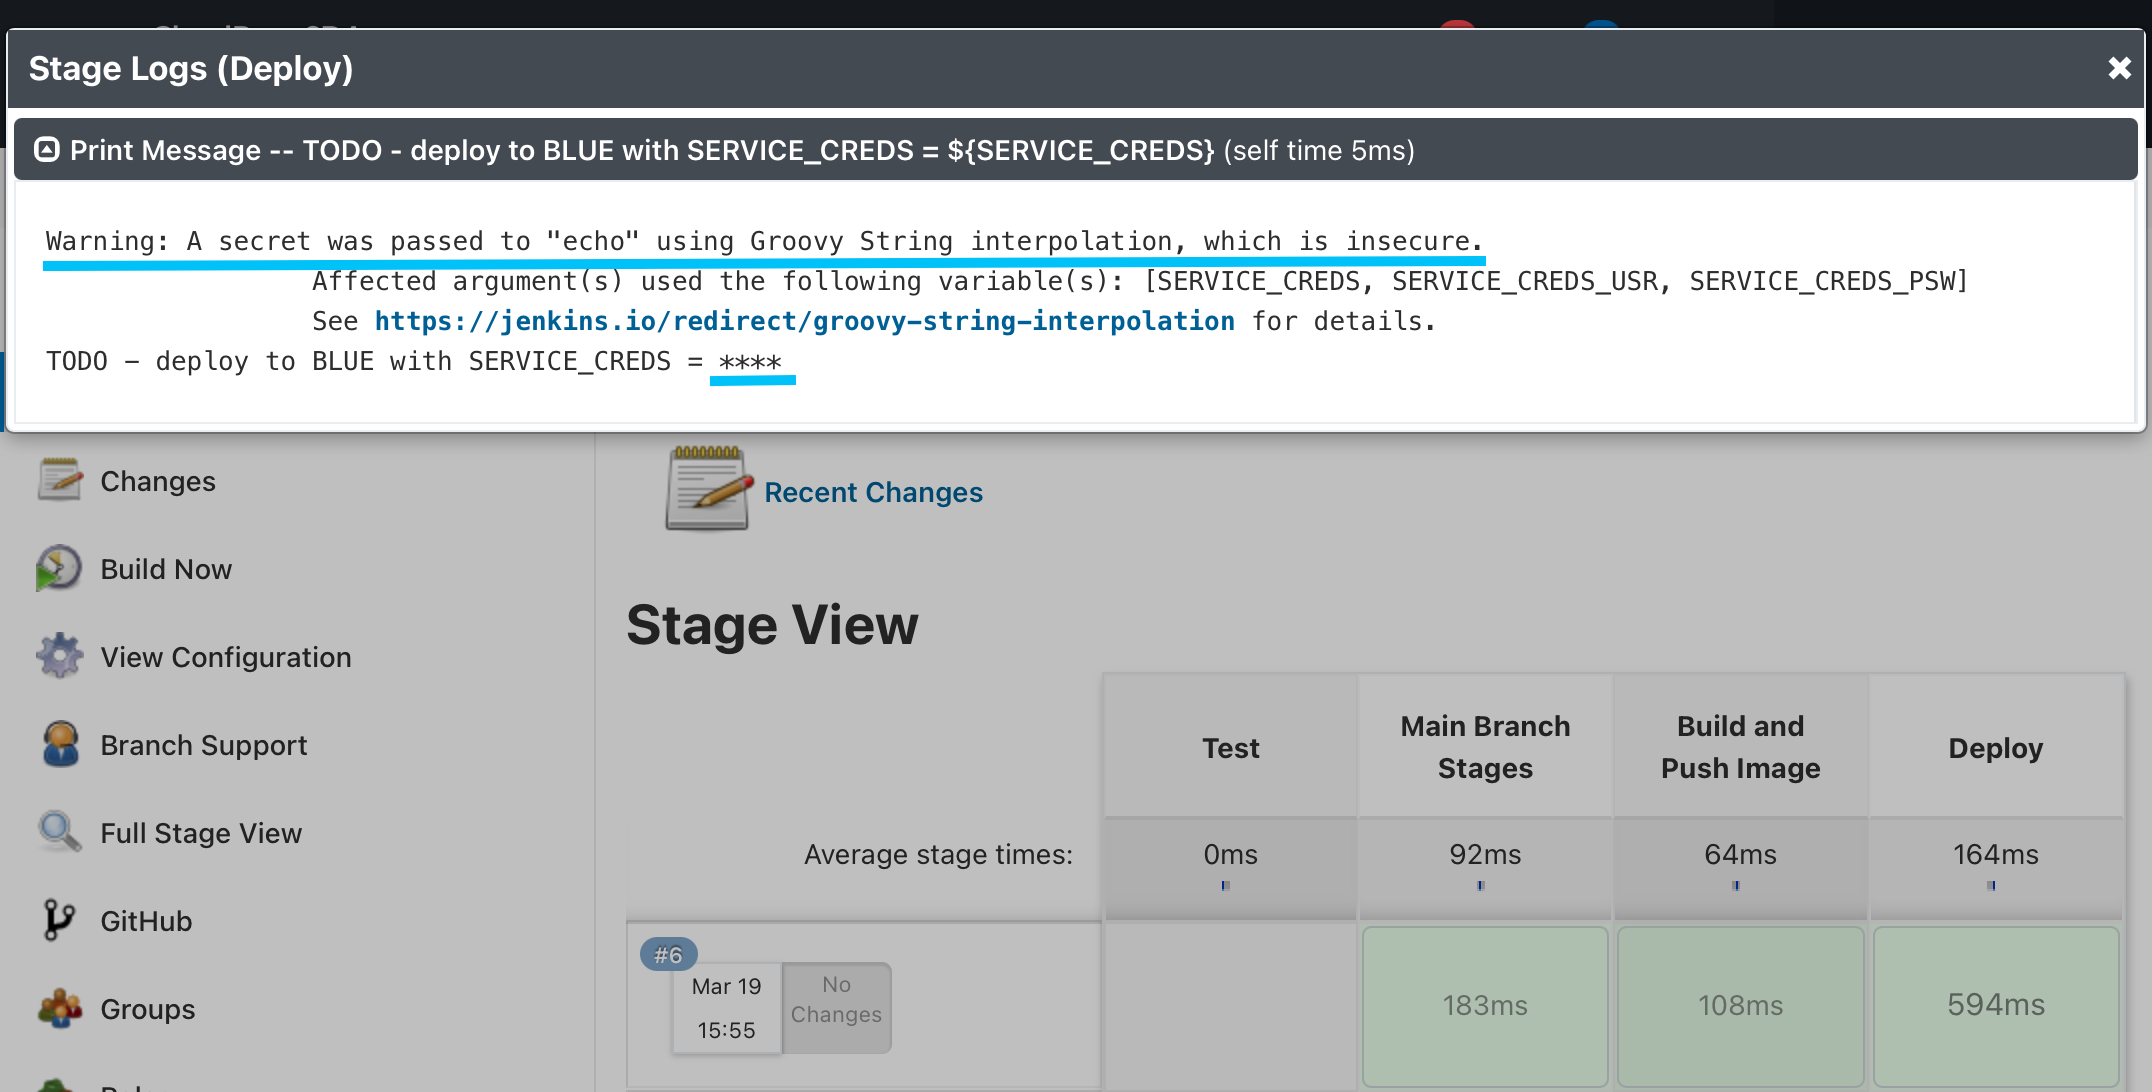
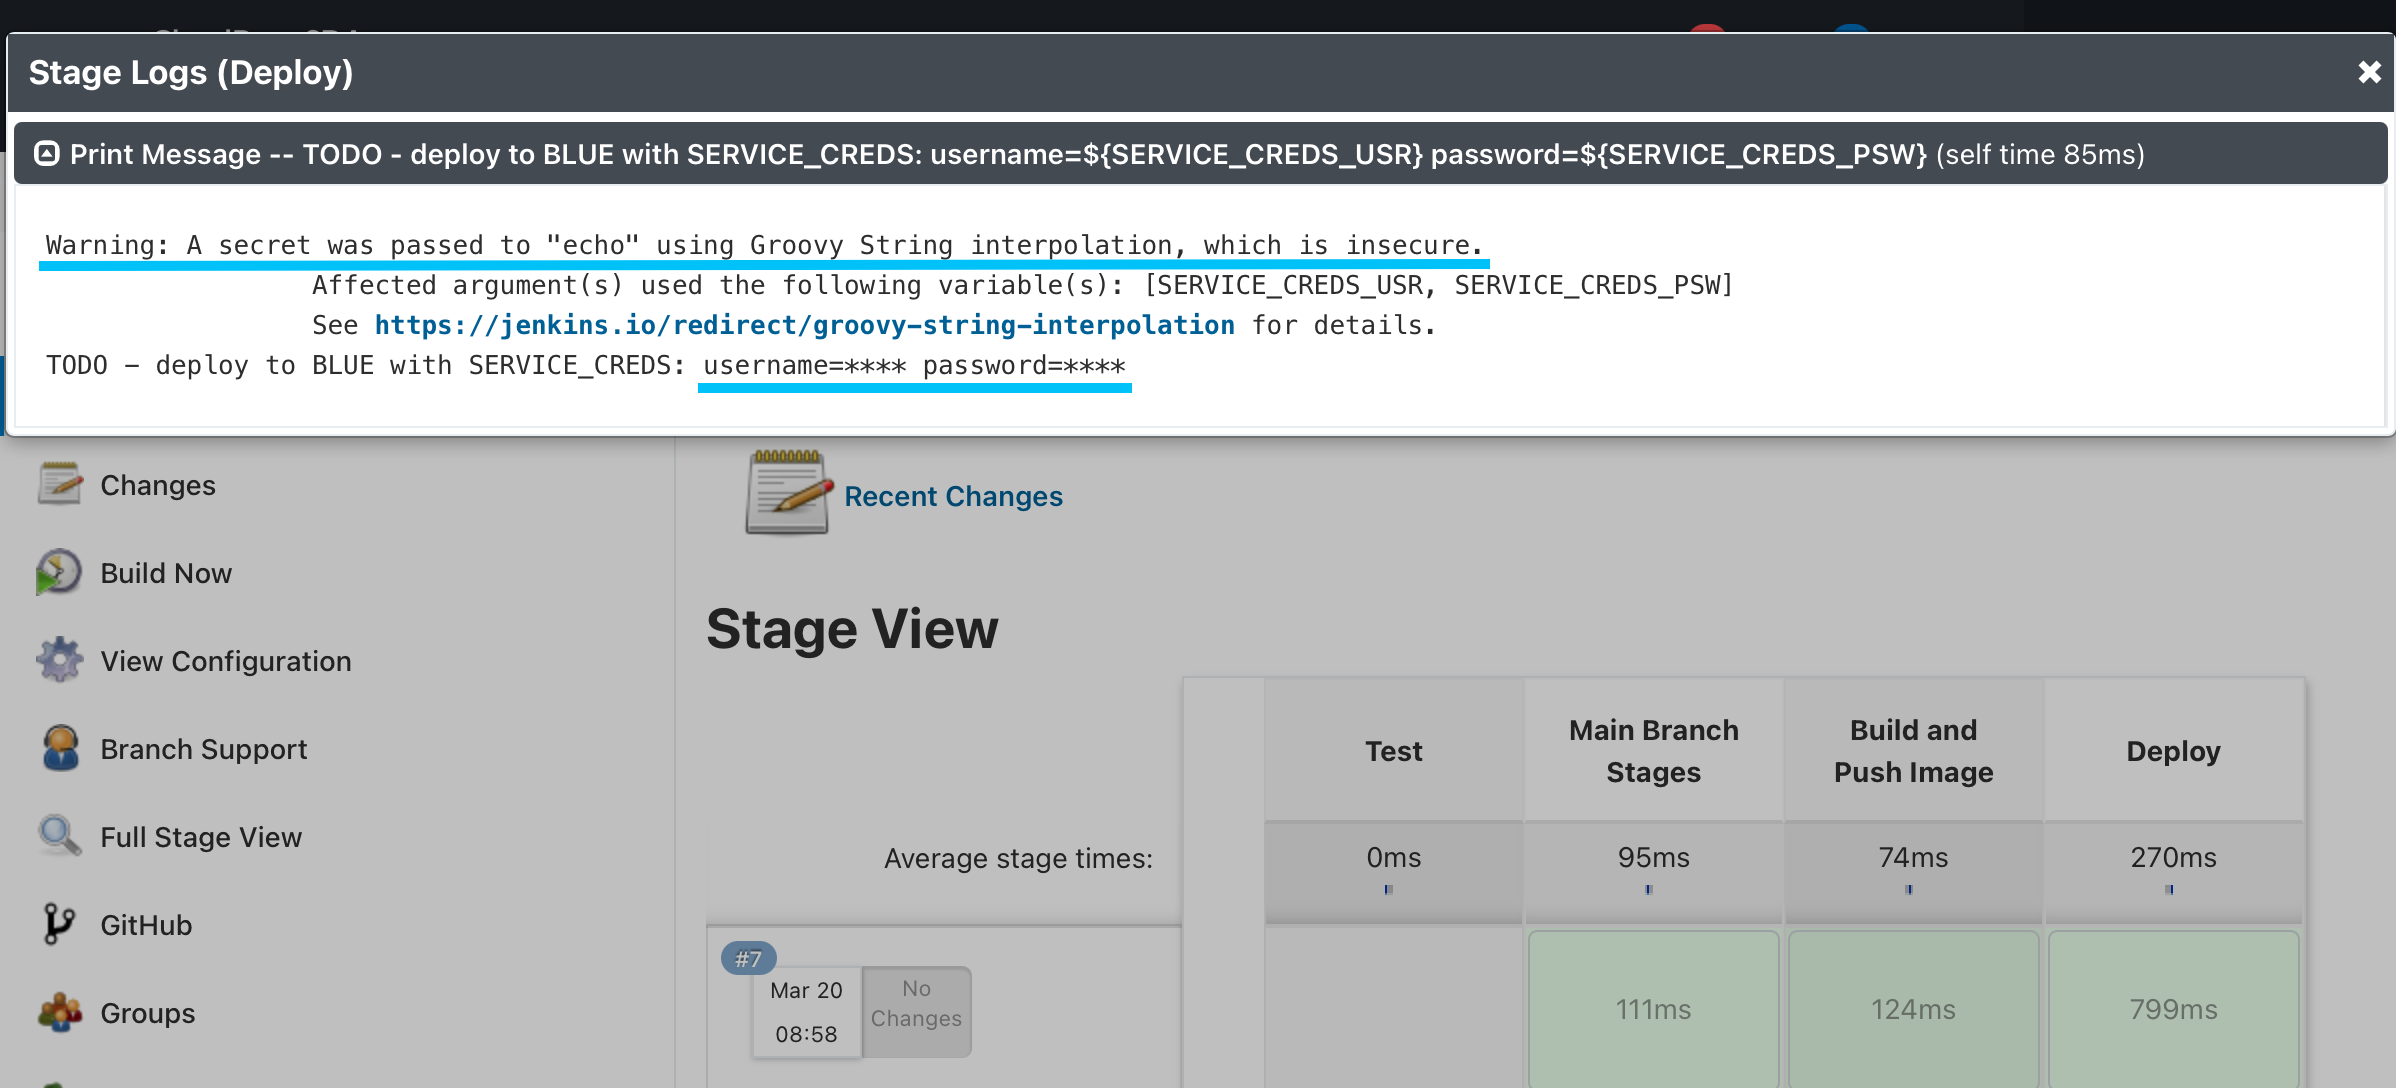
tweaks for environment lab

diff --git a/labs/cloudbees-ci-pipeline/content/labs/environment-credentials.md b/labs/cloudbees-ci-pipeline/content/labs/environment-credentials.md
@@ -99,13 +99,87 @@ In this lab we will use the `environment` directive to inject a username/passwor
             SERVICE_CREDS = credentials('example-service-username-password')
           }
           steps {
-            echo "TODO - deploy to $FAVORITE_COLOR with SERVICE_CREDS = $SERVICE_CREDS"
+            echo "TODO - deploy to $FAVORITE_COLOR with SERVICE_CREDS: username=$SERVICE_CREDS_USR password=$SERVICE_CREDS_PSW"
           }
         }
 ```
 
+Note that the `credentials` helper automatically creates two environment variables use the variable name we provided as a prefix and add `_USR` for the credential username and `_PSW` for the credential password. The credential variable without either suffix will provide the value in the format `username:password`.
 3. At the bottom of the screen enter a commit message, leave **Commit directly to the `main` branch** selected and click the **Commit new file** button.
 4. Navigate to the **main** branch job of the **helloworld-nodejs** project on your Managed Controller and the job should be running or queued to run. Once it completes, review the logs for the **Deploy** stage. ![Deploy Stage Logs with Secret Warning](deploy-logs-secret-warning.png?width=50pc) 
-Note that there is a warning regarding *Groovy String interpolation* for the **SERVICE_CREDS** environment variable; meaning that the environment variable’s value could be made available earlier than intended, resulting in sensitive data leaking in various contexts.
+Note that there is a warning regarding *Groovy String interpolation* for the **SERVICE_CREDS** environment variable. This is referring to the fact that the the sensitive environment variable will be interpolated during Groovy evaluation and the value could be made available earlier than intended, resulting in sensitive data leaking in various contexts. But we can fix that.
 5. Navigate back to and open the GitHub editor for the `Jenkinsfile` file in the **main** branch of your **helloworld-nodejs** repository.  ![Edit Jenkinsfile](edit-jenksinfile.png?width=50pc) 
+6. We will update the `echo` step of the **Deploy** stage so it does not use Groovy String interpolation to inject the username/password credential. Replace the entire **Deploy** stage with the following:
+```
+        stage('Deploy') {
+          agent any
+          environment {
+            FAVORITE_COLOR = 'BLUE'
+            SERVICE_CREDS = credentials('example-service-username-password')
+          }
+          steps {
+            sh 'echo TODO - deploy to $FAVORITE_COLOR with SERVICE_CREDS: username=$SERVICE_CREDS_USR password=$SERVICE_CREDS_PSW'
+          }
+        }
+```
 
+By replacing the `echo` step with an `sh` step the executes **echo** on the agent and replacing the double-quotes with single-quotes so no Groovy String interpolation is performed on the controller. We also had to add an `agent` because the `sh` step requires an agent to run on.
+7. At the bottom of the screen enter a commit message, leave **Commit directly to the `main` branch** selected and click the **Commit new file** button.
+8. Navigate to the **main** branch job of the **helloworld-nodejs** project on your Managed Controller and the job should be running or queued to run. Once it completes, review the logs for the **Deploy** stage. ![Deploy Stage Logs No Secret Warning](deploy-logs-no-secret-warning.png?width=50pc) 
+
+There should no longer be a warning regarding *Groovy String interpolation*.
+>NOTE: By default warnings are configured to be displayed on the build and log pages when there might be insecure interpolation. To configure these warnings set `org.jenkinsci.plugins.workflow.cps.DSL.UNSAFE_GROOVY_INTERPOLATION` to the following values:
+- `ignore`: no warnings will be displayed on the log or build page.
+- `fail`: build failure when the build encounters the first interpolated groovy string that contains a secret.
+
+### Finished Jenkinsfile for the *Environment Variables and Credentials* Lab
+```
+pipeline {
+  agent none
+  environment {
+    FAVORITE_COLOR = 'RED'
+  }
+  stages {
+    stage('Test') {
+      when {
+        beforeAgent true
+        not { branch 'main' }
+      }
+      agent {
+        kubernetes {
+          yamlFile 'nodejs-pod.yaml'
+        }
+      }
+      steps {
+        container('nodejs') { 
+          sh 'node --version'
+        }
+      }
+    }
+    stage('Main Branch Stages') {
+      when {
+        beforeAgent true
+        branch 'main'
+      }
+      stages {
+        stage('Build and Push Image') {
+          steps {
+            echo "FAVORITE_COLOR is $FAVORITE_COLOR"  
+            echo "TODO - build and push image"
+          }
+        }
+        stage('Deploy') {
+          agent any
+          environment {
+            FAVORITE_COLOR = 'BLUE'
+            SERVICE_CREDS = credentials('example-service-username-password')
+          }
+          steps {
+            sh 'echo TODO - deploy to $FAVORITE_COLOR with SERVICE_CREDS: username=$SERVICE_CREDS_USR password=$SERVICE_CREDS_PSW'
+          }
+        }
+      }
+    }
+  }
+}
+```
